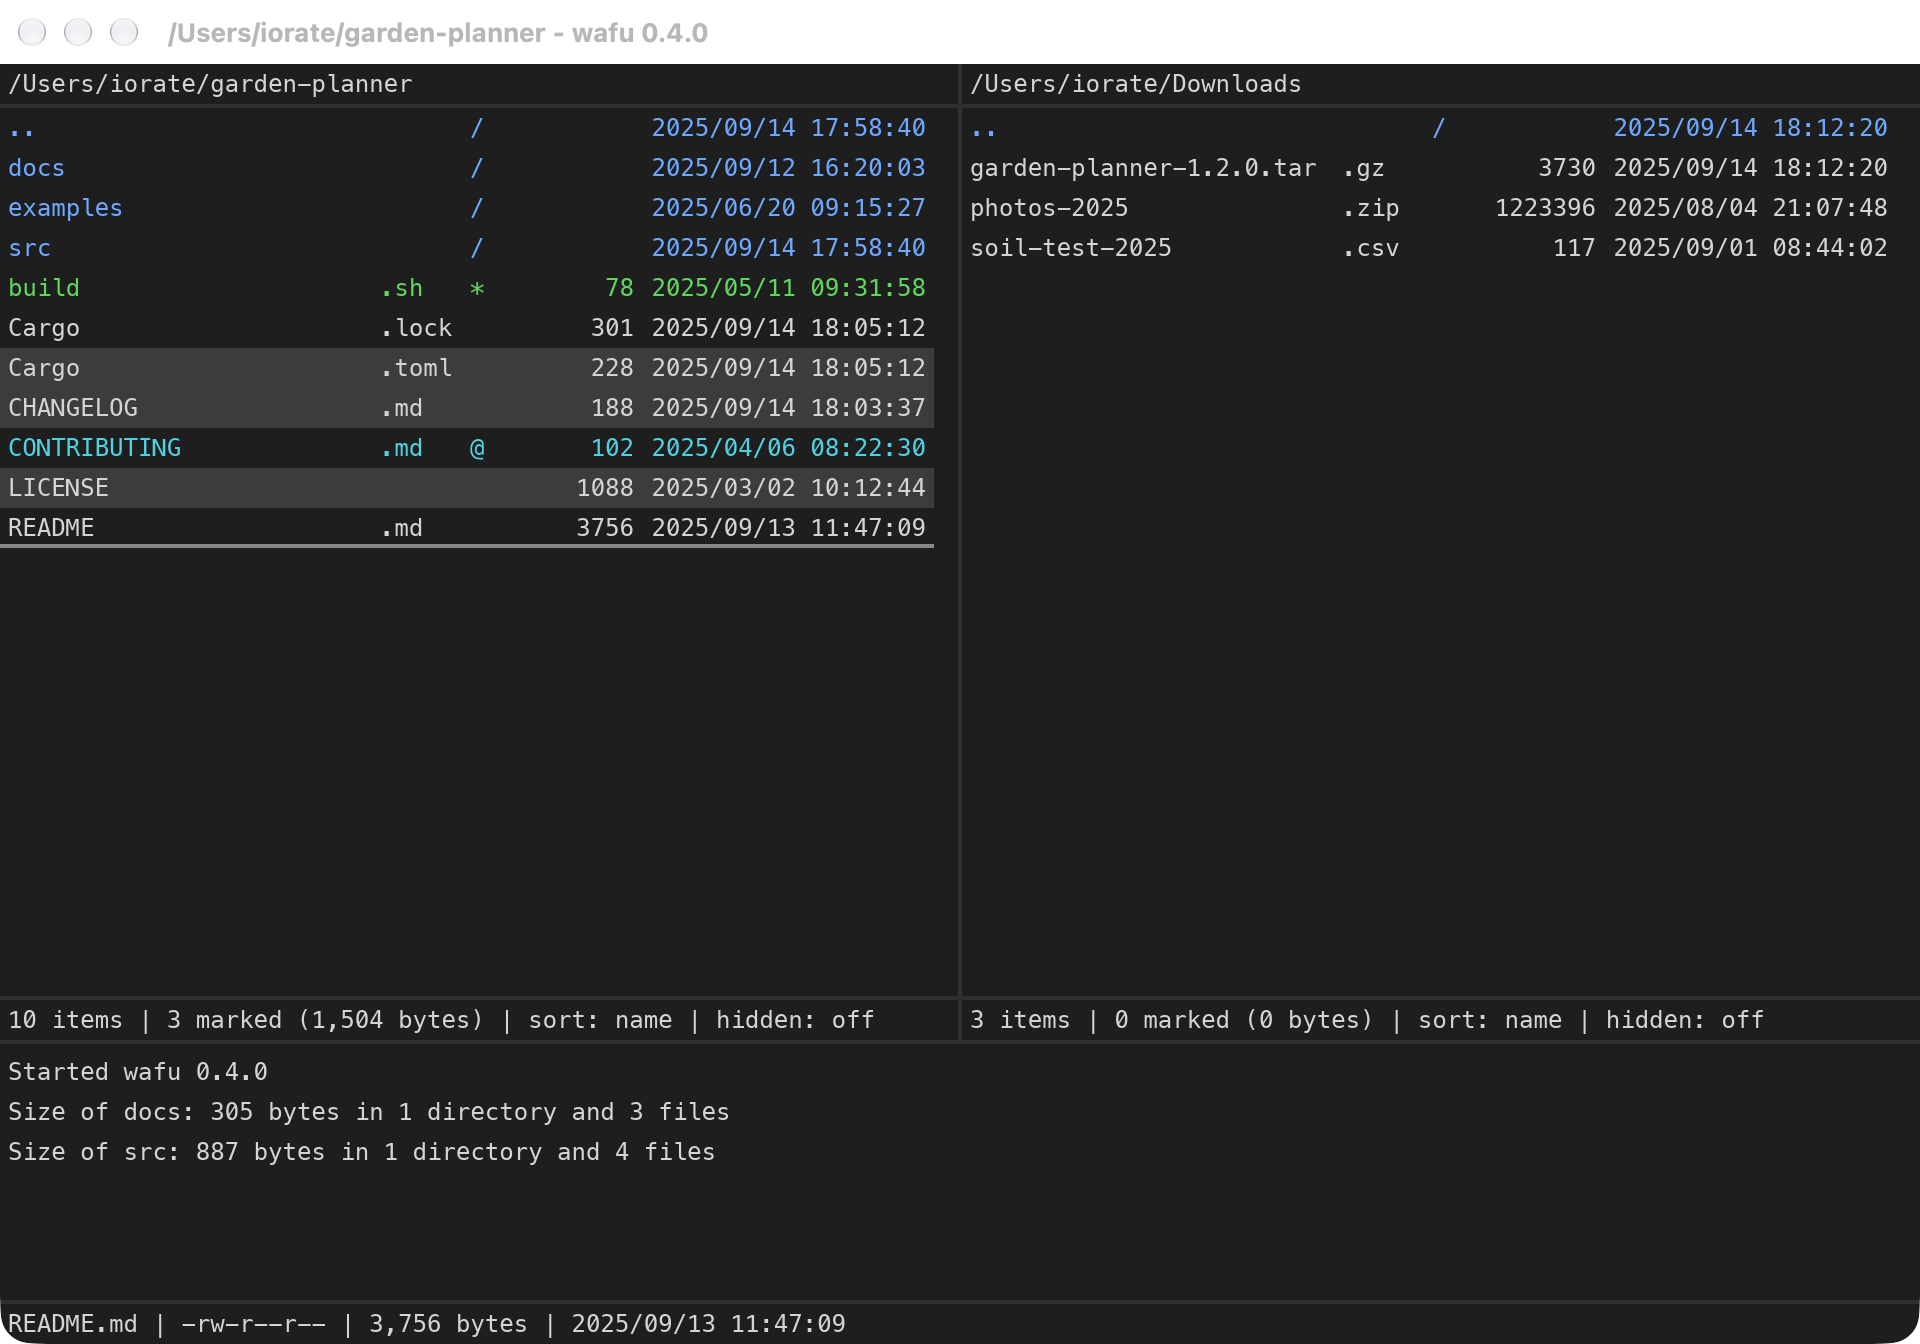
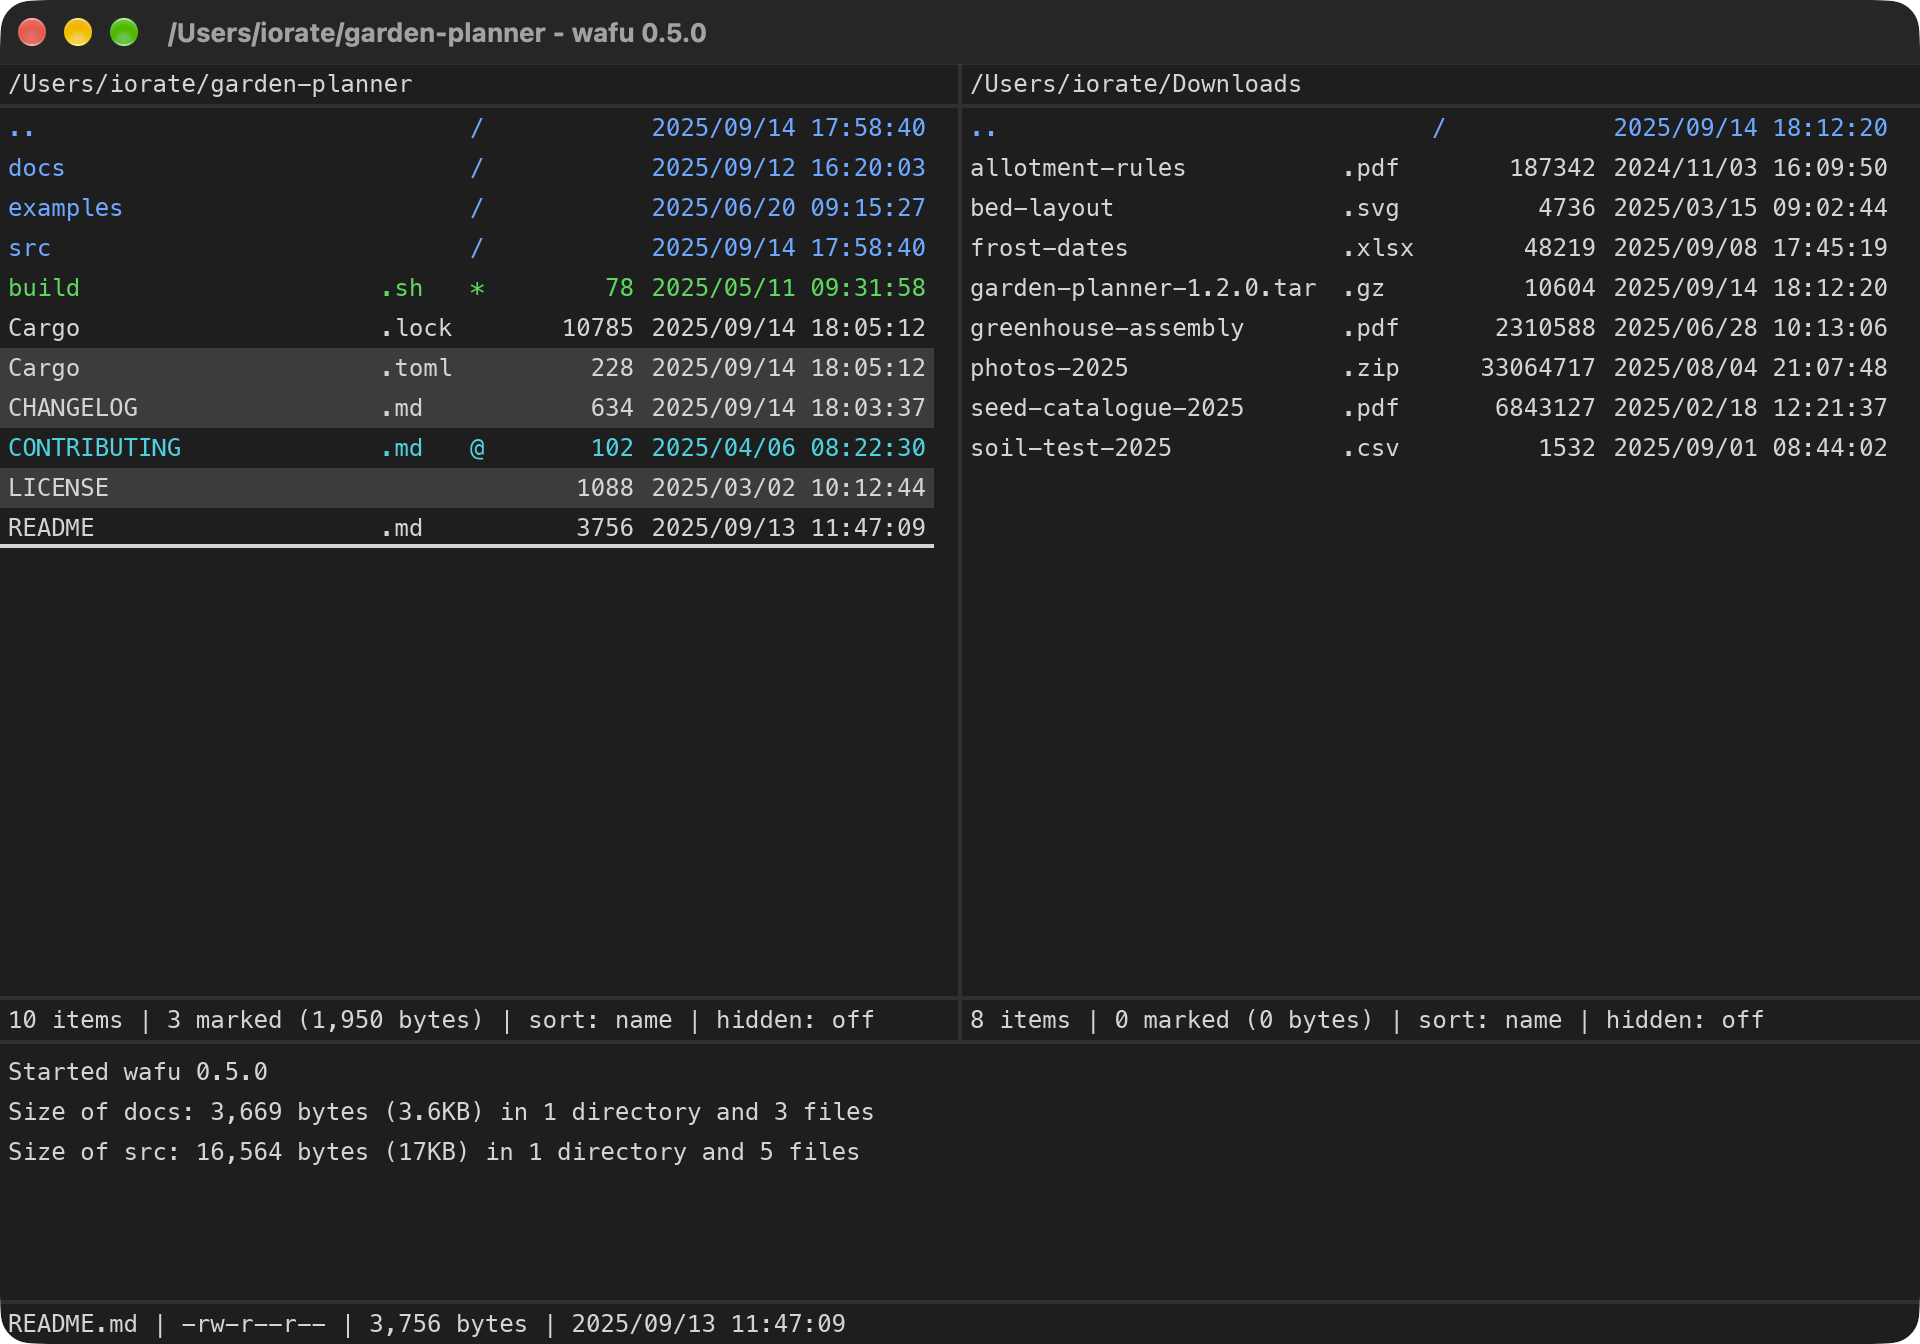
Retake the README screenshots

diff --git a/README.md b/README.md
@@ -19,7 +19,7 @@ The default keys are modeled on [あふｗ](https://afxw.sakura.ne.jp/), a two-p
 
 - **Previews.** <kbd>Enter</kbd> on an image in the left pane shows it in the right half, and the preview follows the cursor. Other files open as text (<kbd>V</kbd> forces it); there <kbd>Tab</kbd> switches to a hex dump and <kbd>C</kbd> picks the encoding.
 
-  ![A photo of hills at sunset previewed in the right half of the window, beside the list of photos it was opened from, two of which are marked](https://raw.githubusercontent.com/iorate/wafu/main/docs/images/preview.png)
+  ![A photo of hills at sunset previewed in the right half of the window, beside the list of photos it was opened from, one of which is marked](https://raw.githubusercontent.com/iorate/wafu/main/docs/images/preview.png)
 
 - **Getting around.** <kbd>F</kbd> searches the list as you type, <kbd>:</kbd> filters it with a glob such as `*.{jpg,png}`, and <kbd>Shift</kbd>+<kbd>F</kbd> finds files by name in all subdirectories. Each pane keeps its own history (<kbd>H</kbd>), and <kbd>J</kbd> opens your bookmarks.
 - **Configuration applied on save.** <kbd>Z</kbd> opens the configuration file in your editor, and changes apply as soon as it is saved.
